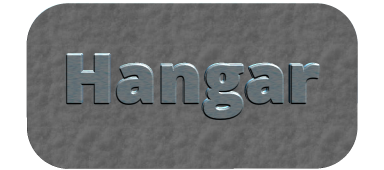
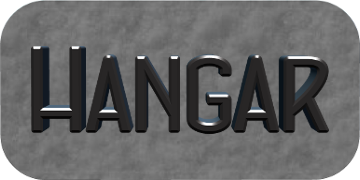
Adding images and code for menu buttons

diff --git a/src/com/gdx/orion/screens/Menu.java b/src/com/gdx/orion/screens/Menu.java
@@ -29,7 +29,7 @@ import com.gdx.orion.utils.Scene2dUtils;
 
 public class Menu extends GameState implements Screen {
 
-    @SuppressWarnings("unused")
+	@SuppressWarnings("unused")
 	private Game game;
     private static OrthographicCamera consoleCam;
     private static ScalingViewport consoleViewport;  
@@ -44,6 +44,8 @@ public class Menu extends GameState implements Screen {
 	private Sprite titleS = new Sprite(new Texture(Gdx.files.internal("images/TitleScreen.png")));
 	private Sprite text = new Sprite(new Texture(Gdx.files.internal("images/AsteroidsText.png")));
     
+	private static final int BUTTON_Y_OFFSET = -35;
+	
 	protected Menu(Game game, int level) {
 		super(GameStateManager.MENU);
 		this.game = game;
@@ -67,16 +69,16 @@ public class Menu extends GameState implements Screen {
 
 		style = Scene2dUtils.createTextButtonStyle(skin, "default");
 
-		final Button playButton = new TextButton("PLAY", style);
-		playButton.setPosition(0, 0);
+		final Button playButton = new ImageButton(new SpriteDrawable(new Sprite(new Texture(Gdx.files.internal("buttons/button_play.png")))));
+		playButton.setPosition(0, BUTTON_Y_OFFSET);
 		final Button hangar = new ImageButton(new SpriteDrawable(new Sprite(new Texture(Gdx.files.internal("buttons/button_hangar.png")))));
-		hangar.setPosition(1 * cam.viewportWidth / 5, -40);
-		final Button settings = new TextButton("SETTINGS", style);
-		settings.setPosition(2 * cam.viewportWidth / 5, 0);
-		final Button levelEditor = new TextButton("EDITOR", style);
-		levelEditor.setPosition(3 * cam.viewportWidth / 5, 0);
-		final Button exit = new TextButton("EXIT", style);
-		exit.setPosition(4 * cam.viewportWidth / 5, 0);
+		hangar.setPosition(1 * cam.viewportWidth / 5, BUTTON_Y_OFFSET);
+		final Button settings = new ImageButton(new SpriteDrawable(new Sprite(new Texture(Gdx.files.internal("buttons/button_settings.png")))));
+		settings.setPosition(2 * cam.viewportWidth / 5, BUTTON_Y_OFFSET);
+		final Button levelEditor = new ImageButton(new SpriteDrawable(new Sprite(new Texture(Gdx.files.internal("buttons/button_editor.png")))));
+		levelEditor.setPosition(3 * cam.viewportWidth / 5, BUTTON_Y_OFFSET);
+		final Button exit = new ImageButton(new SpriteDrawable(new Sprite(new Texture(Gdx.files.internal("buttons/button_exit.png")))));
+		exit.setPosition(4 * cam.viewportWidth / 5, BUTTON_Y_OFFSET);
 		
 		stage.addActor(playButton);
 		stage.addActor(hangar);
